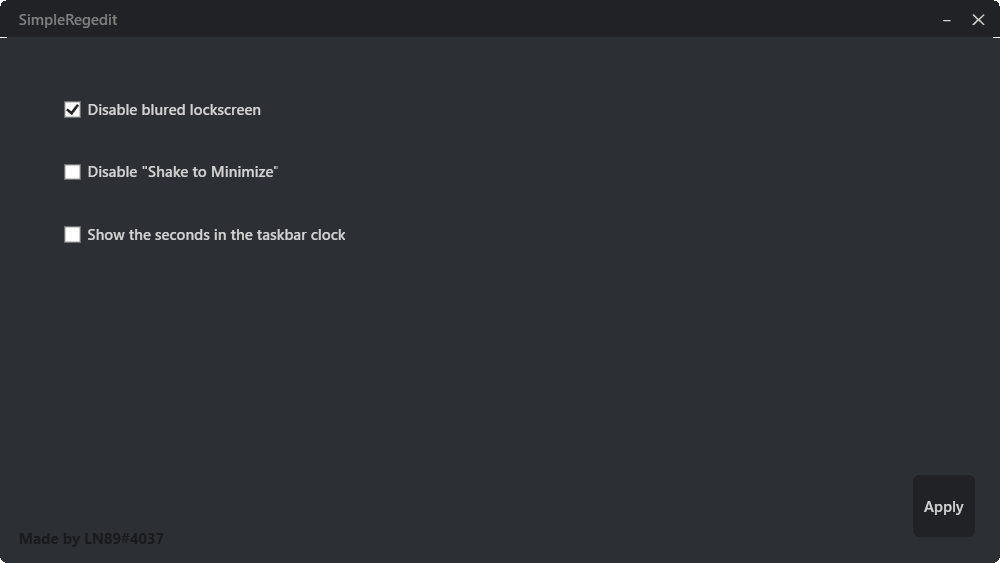
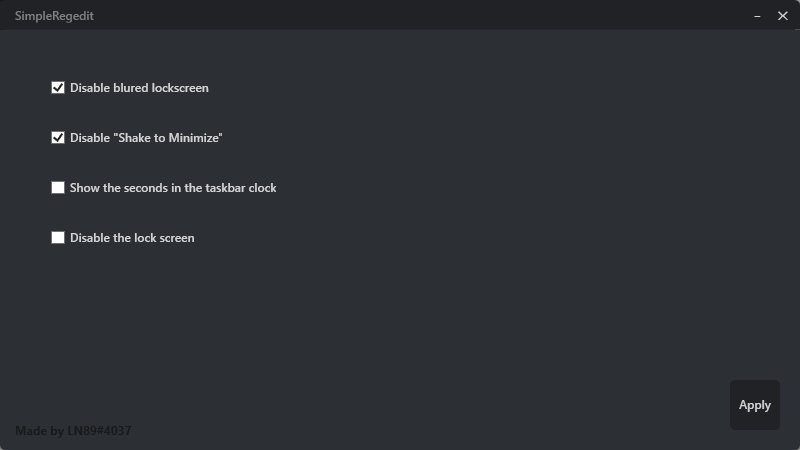
added a new feature

diff --git a/README.md b/README.md
@@ -8,5 +8,6 @@ Contact me on discord (LN89#4037) or use github to report issues! The same goes 
 1. Disable the lockscreen blur when logging on<br/>
 2. Disable the "Shake to Minimize" feature<br/>
 3. Show the seconds in the taskbar clock<br/>
+4. Disable the lock screen<br/>
 <br/>
 <img src="assets_for_README/preview.png"/>
